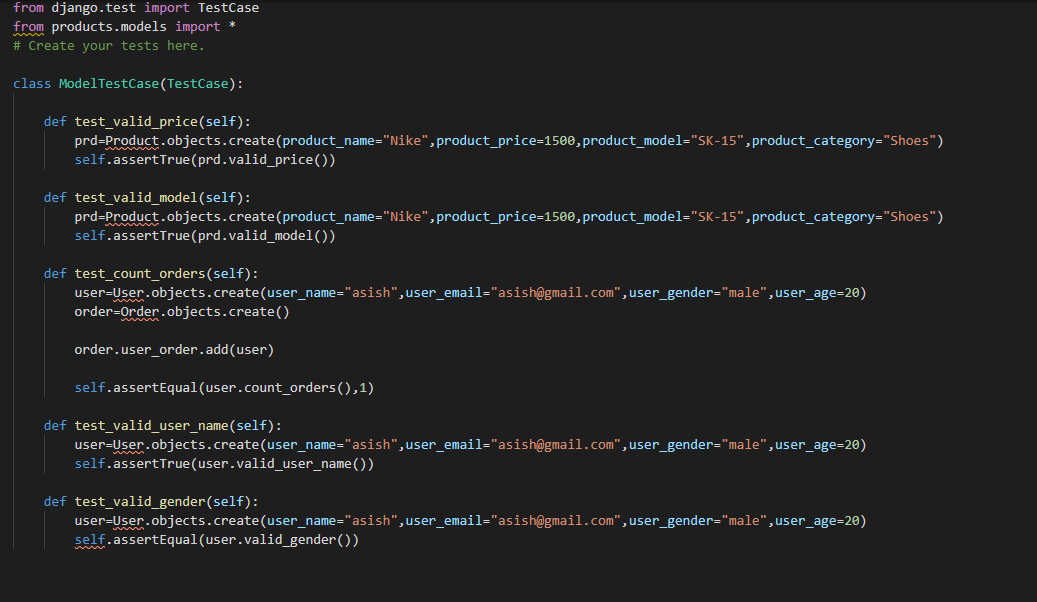
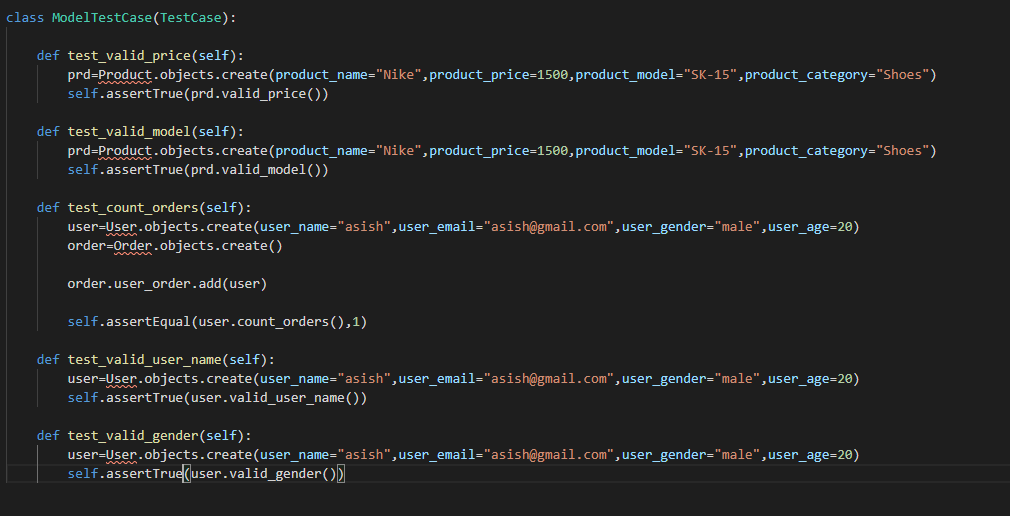
"Test Complete"

Changed region(s): [[0.0, 0.0, 0.9208, 0.5891], [0.0307, 0.6822, 0.8594, 0.9302], [0.0614, 0.6202, 0.3683, 0.6512]]

diff --git a/products/migrations/0001_initial.py b/products/migrations/0001_initial.py
@@ -1,4 +1,4 @@
-# Generated by Django 3.0.2 on 2020-01-24 08:28
+# Generated by Django 3.0.1 on 2020-01-24 13:28
 
 from django.db import migrations, models
 import django.db.models.deletion
@@ -16,13 +16,13 @@ class Migration(migrations.Migration):
             name='Product',
             fields=[
                 ('id', models.AutoField(auto_created=True, primary_key=True, serialize=False, verbose_name='ID')),
-                ('product_pic', models.ImageField(upload_to='')),
+                ('product_pic', models.ImageField(null=True, upload_to='')),
                 ('product_name', models.TextField()),
                 ('product_price', models.IntegerField(max_length=50)),
                 ('product_model', models.TextField()),
                 ('product_category', models.TextField()),
-                ('product_gender', models.TextField()),
-                ('product_details', models.TextField()),
+                ('product_gender', models.TextField(null=True)),
+                ('product_details', models.TextField(null=True)),
             ],
         ),
         migrations.CreateModel(
@@ -31,7 +31,7 @@ class Migration(migrations.Migration):
                 ('id', models.AutoField(auto_created=True, primary_key=True, serialize=False, verbose_name='ID')),
                 ('user_name', models.TextField()),
                 ('user_email', models.TextField()),
-                ('user_address', models.TextField()),
+                ('user_address', models.TextField(null=True)),
                 ('user_gender', models.TextField()),
                 ('user_age', models.IntegerField(max_length=50)),
                 ('products', models.ManyToManyField(to='products.Product')),
@@ -43,7 +43,7 @@ class Migration(migrations.Migration):
                 ('id', models.AutoField(auto_created=True, primary_key=True, serialize=False, verbose_name='ID')),
                 ('payment_name', models.TextField()),
                 ('payment_type', models.TextField()),
-                ('users_payment', models.ManyToManyField(to='products.User')),
+                ('user_payment', models.ForeignKey(on_delete=django.db.models.deletion.CASCADE, to='products.User')),
             ],
         ),
         migrations.CreateModel(
@@ -53,7 +53,7 @@ class Migration(migrations.Migration):
                 ('order_name', models.TextField()),
                 ('order_type', models.TextField()),
                 ('order_date', models.IntegerField(max_length=50)),
-                ('user_order', models.ManyToManyField(to='products.User')),
+                ('user_order', models.ManyToManyField(related_name='orders', to='products.User')),
             ],
         ),
         migrations.CreateModel(

diff --git a/products/models.py b/products/models.py
@@ -31,7 +31,7 @@ class User(models.Model):
         return self.user_name
 
     def count_orders(self):
-        return self.orders.all.count()
+        return self.orders.all().count()
 
     def valid_user_name(self):
         return self.user_name!=""
@@ -52,7 +52,7 @@ class Payment(models.Model):
 class Order(models.Model):
     order_name=models.TextField()
     order_type=models.TextField()
-    order_date=models.IntegerField(max_length=50)
+    order_date=models.DateField(max_length=50,null=True)
     user_order=models.ManyToManyField(User,related_name="orders")
 
     def __str__(self):

diff --git a/products/migrations/0002_auto_20200124_1916.py b/products/migrations/0002_auto_20200124_1916.py
@@ -1,0 +1,18 @@
+# Generated by Django 3.0.1 on 2020-01-24 13:31
+
+from django.db import migrations, models
+
+
+class Migration(migrations.Migration):
+
+    dependencies = [
+        ('products', '0001_initial'),
+    ]
+
+    operations = [
+        migrations.AlterField(
+            model_name='order',
+            name='order_date',
+            field=models.DateField(max_length=50, null=True),
+        ),
+    ]

diff --git a/products/tests.py b/products/tests.py
@@ -26,5 +26,5 @@ class ModelTestCase(TestCase):
     
     def test_valid_gender(self):
         user=User.objects.create(user_name="asish",user_email="asish@gmail.com",user_gender="male",user_age=20)
-        self.assertEqual(user.valid_gender())
+        self.assertTrue(user.valid_gender())
 
